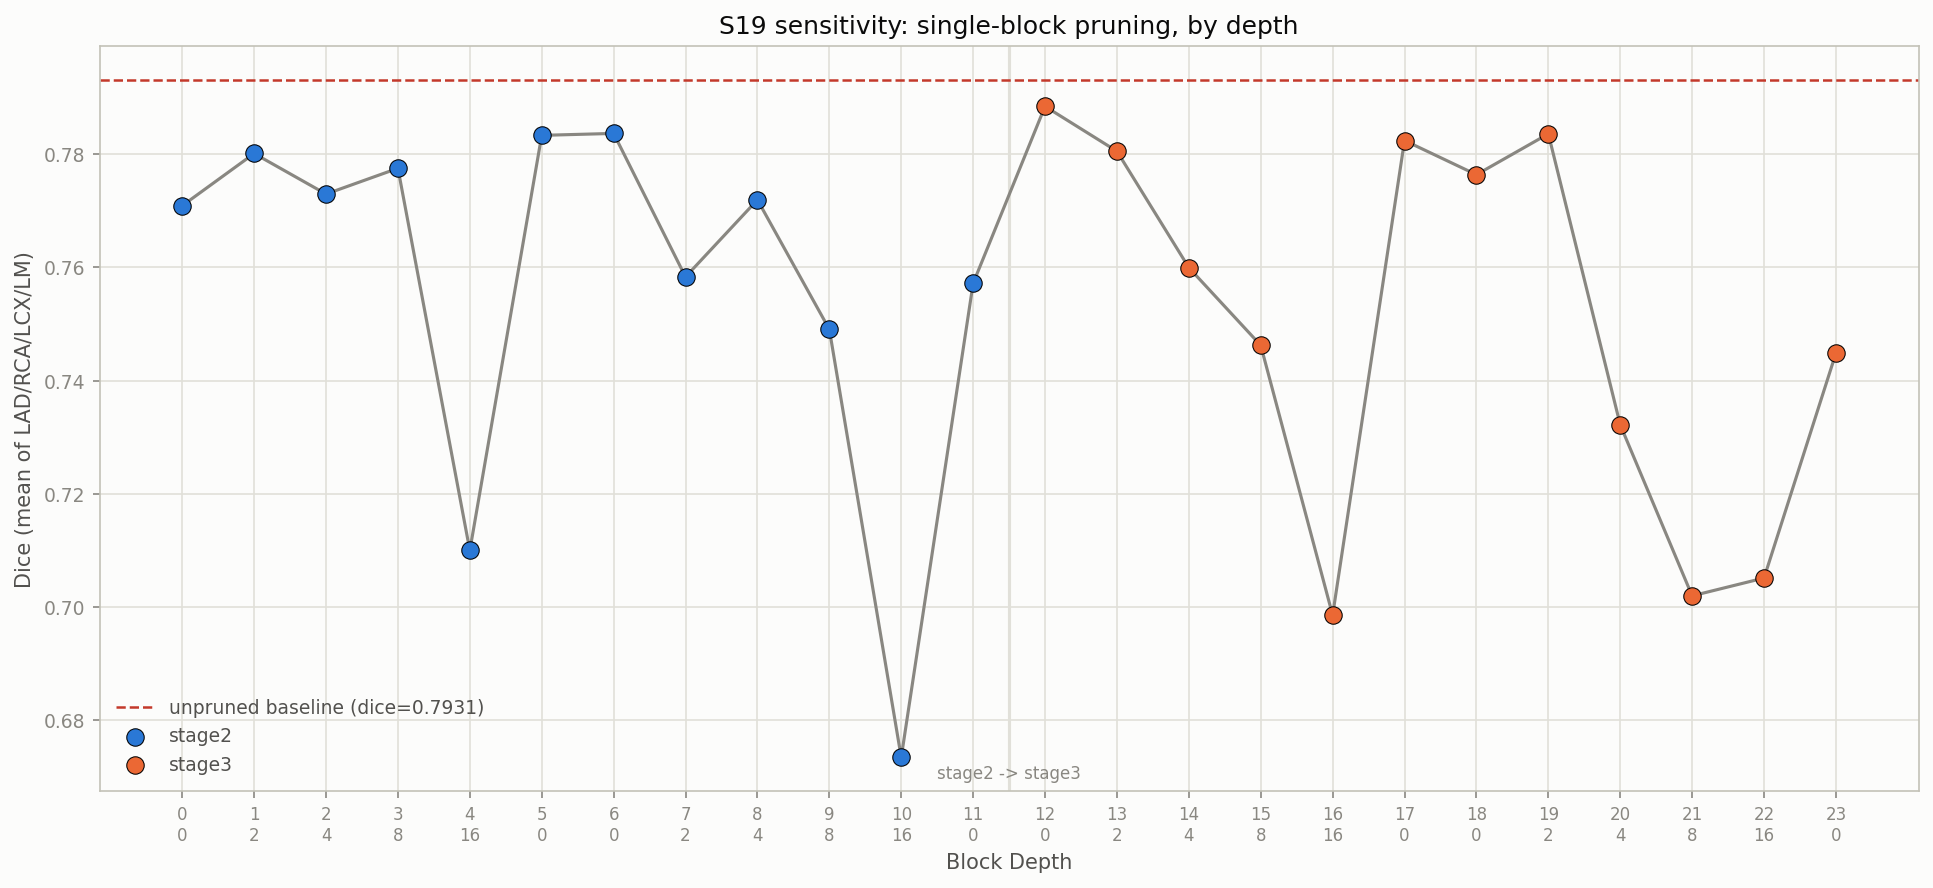
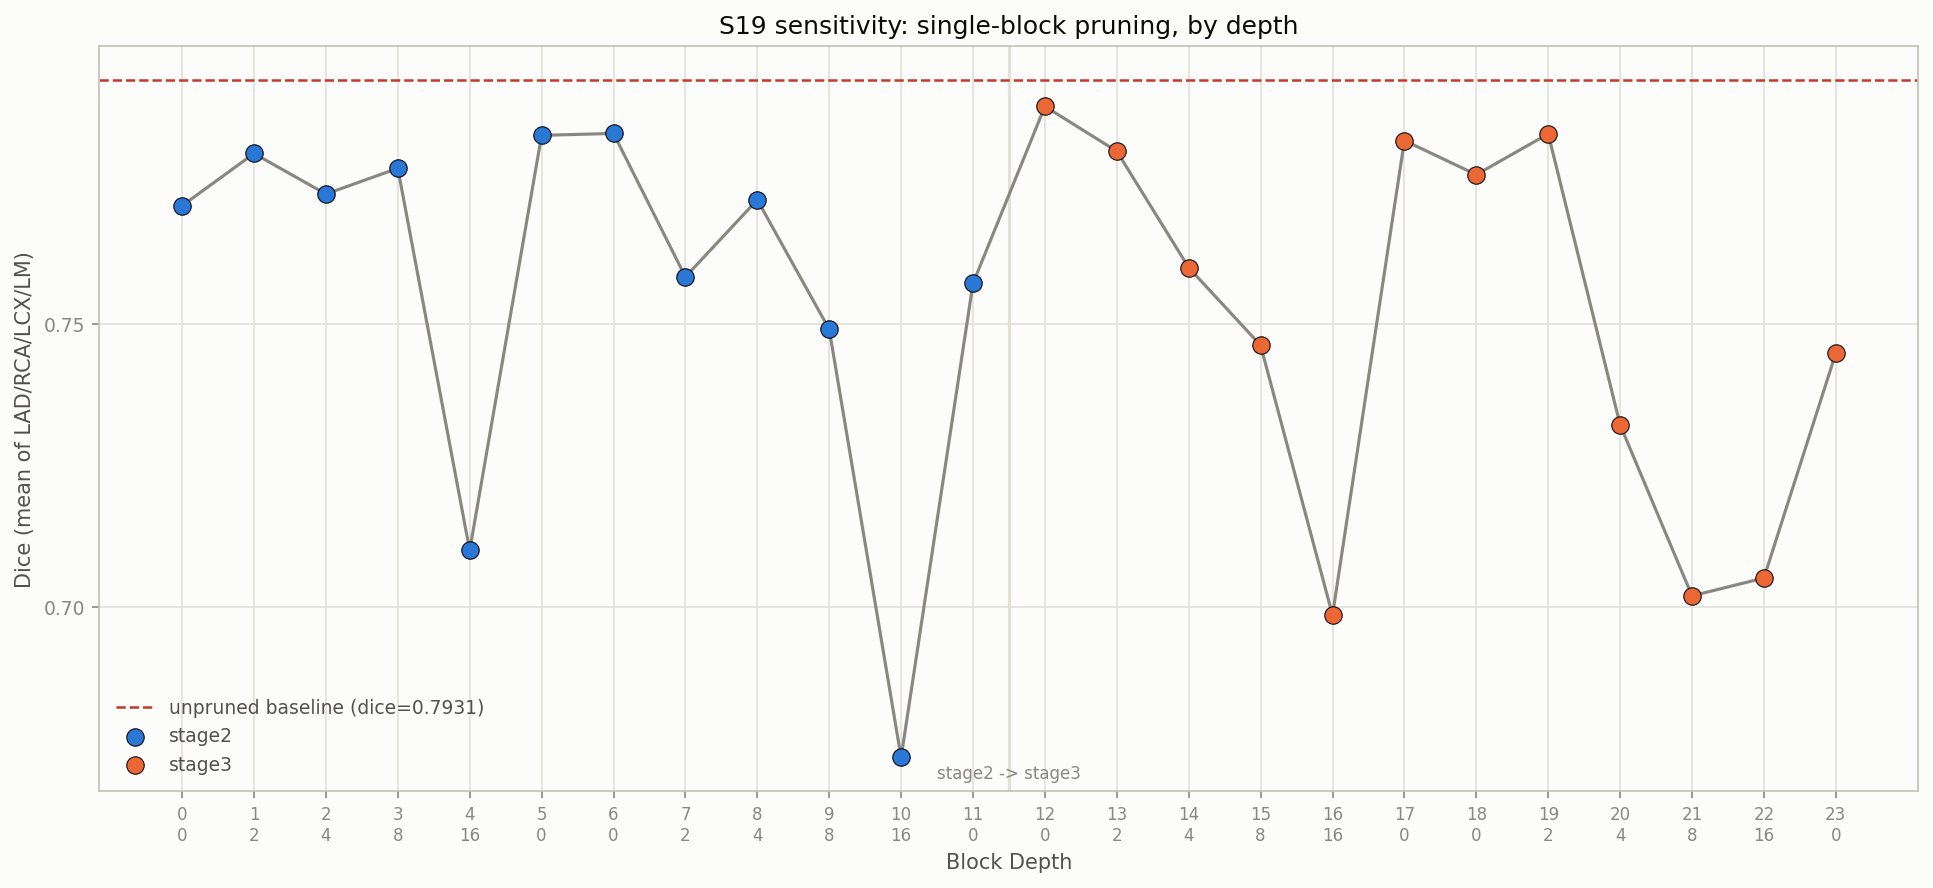
S19 sensitivity plots: force consistent 0.05 y-axis tick spacing across all three
Individual/consecutive-pair/skip-pair plots previously auto-picked
different y-tick spacings (0.02/0.05/0.025) since matplotlib's default
locator depends on each plot's own dice range -- made the three harder to
visually compare side by side. New _apply_y_tick_step(ax, cfg) forces
MultipleLocator(0.05) on all three S19 plots specifically (S8-ReLU's
plots are untouched, still auto-spaced).

diff --git a/compression/plot_pruning_sensitivity.py b/compression/plot_pruning_sensitivity.py
@@ -123,6 +123,20 @@ def _style_axes(ax) -> None:
     ax.set_ylabel("Dice (mean of LAD/RCA/LCX/LM)", color=SECONDARY_INK, fontsize=10)
 
 
+# S19's three plots (individual/consec/skip) previously landed on different
+# auto-chosen y-tick spacings (0.02/0.05/0.025) purely because matplotlib
+# picks locators from each plot's own data range -- made the three harder
+# to visually compare side by side. Forced to the same 0.05 step on all
+# three (S8-ReLU's plots are untouched, still auto-spaced).
+S19_Y_TICK_STEP = 0.05
+
+
+def _apply_y_tick_step(ax, cfg: dict) -> None:
+    if cfg["out_suffix"] == "_s19":
+        from matplotlib.ticker import MultipleLocator
+        ax.yaxis.set_major_locator(MultipleLocator(S19_Y_TICK_STEP))
+
+
 def _add_baseline(ax, baseline_dice: float) -> None:
     ax.axhline(baseline_dice, color=BASELINE_COLOR, linewidth=1.2, linestyle="--",
                 zorder=2, label=f"unpruned baseline (dice={baseline_dice:.4f})")
@@ -162,6 +176,7 @@ def plot_individual(df: pd.DataFrame, cfg: dict, out_dir: Path) -> None:
 
     fig, ax = plt.subplots(figsize=(13, 6), facecolor=SURFACE)
     _style_axes(ax)
+    _apply_y_tick_step(ax, cfg)
     _add_baseline(ax, cfg["baseline_dice"])
     # One continuous connecting line across the full depth-ordered walk
     # (neutral color -- stage identity is carried by the marker color
@@ -247,6 +262,7 @@ def _plot_pairs(df: pd.DataFrame, cfg: dict, kind: str, out_name: str, title: st
 
     fig, ax = plt.subplots(figsize=(13, 6), facecolor=SURFACE)
     _style_axes(ax)
+    _apply_y_tick_step(ax, cfg)
     _add_baseline(ax, cfg["baseline_dice"])
     for stage, color in STAGE_COLORS.items():
         subset = data[data["stage"] == stage].sort_values("depth")
